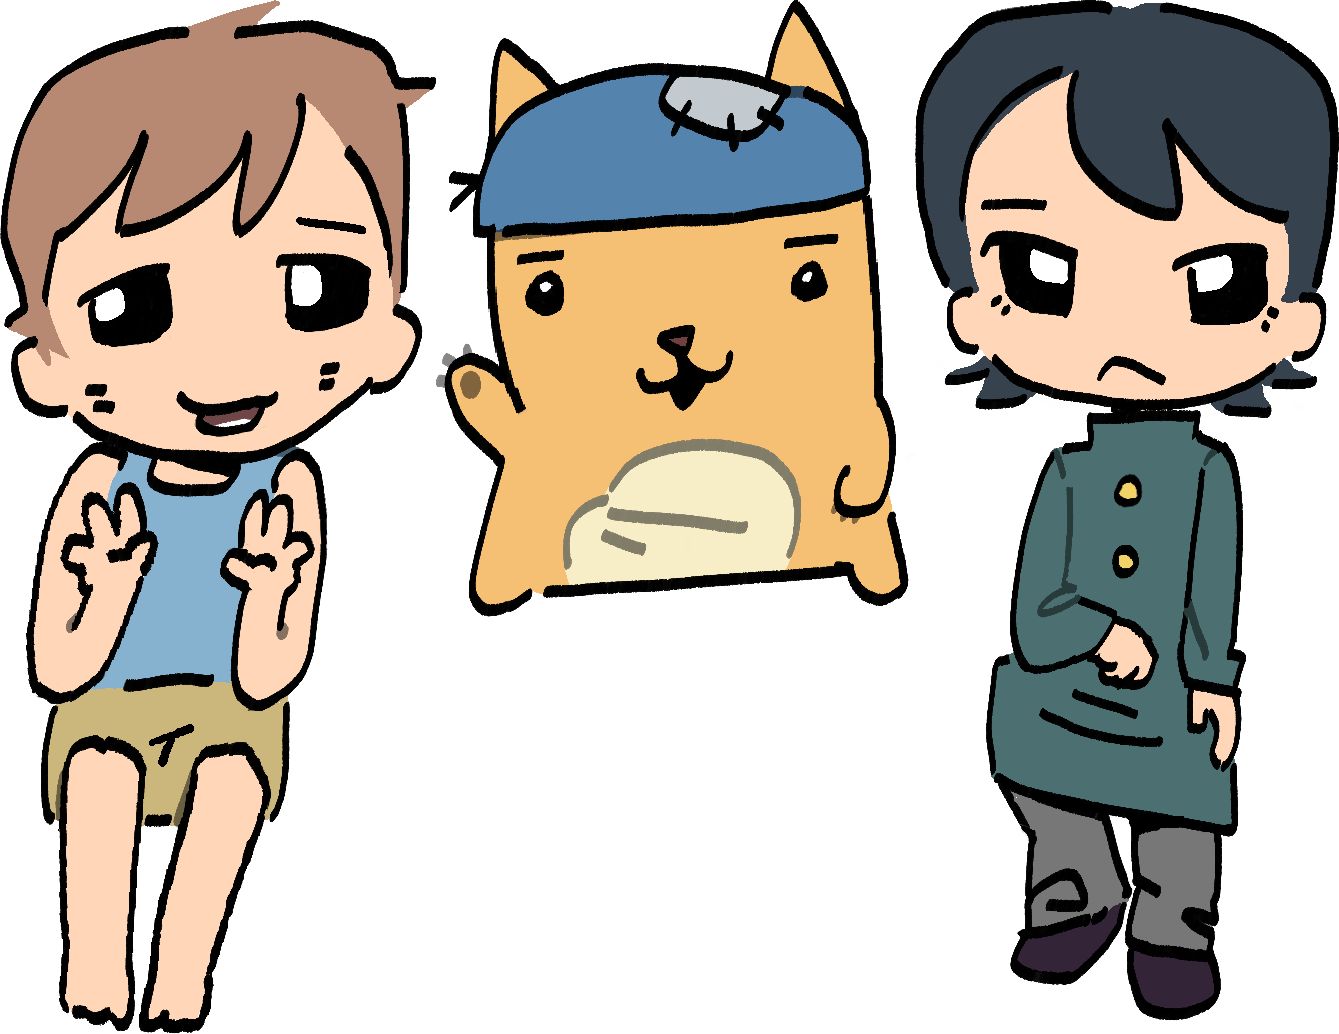
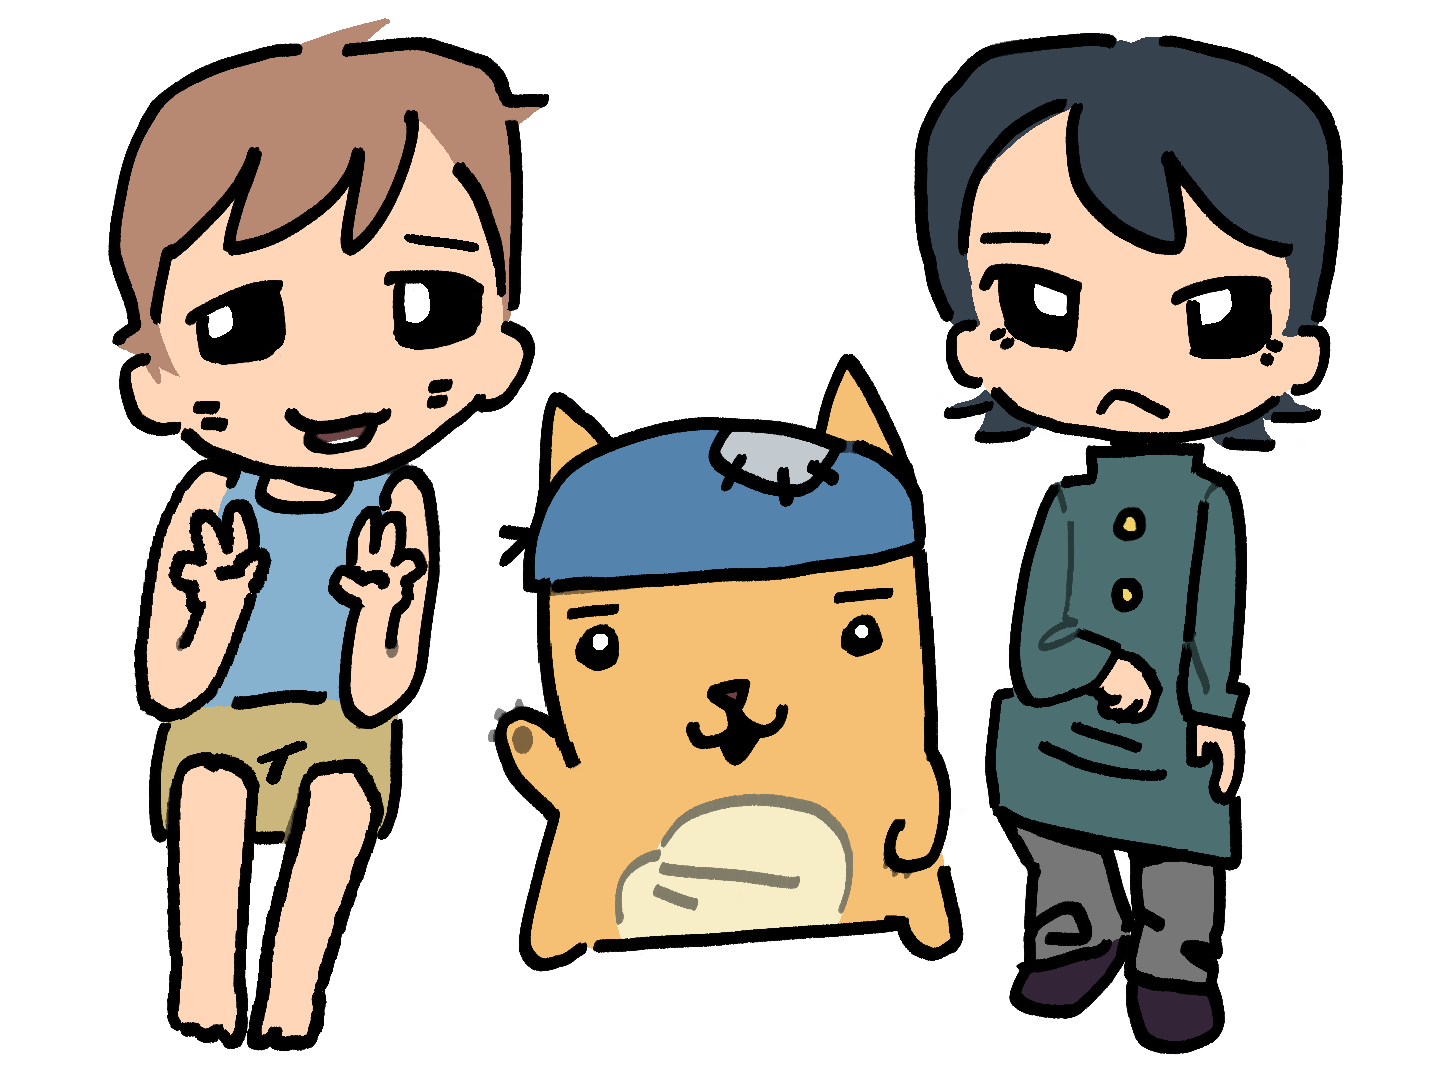
feat(buddy): cut the redrawn buddy sheet into one image per figure

diff --git a/frontend/src/components/BuddyAvatar.jsx b/frontend/src/components/BuddyAvatar.jsx
@@ -1,4 +1,6 @@
-import buddySpriteSheet from '../assets/buddyAvatar/diploma_buddies-Sheet.png'
+import mattiFigure from '../assets/buddyAvatar/figures/matti.png'
+import pandaFigure from '../assets/buddyAvatar/figures/panda.png'
+import ppFigure from '../assets/buddyAvatar/figures/pp.png'
 import pandaIcon from '../assets/buddyAvatar/panda/panda_icon.png'
 import './BuddyAvatar.css'
 
@@ -13,37 +15,20 @@ const BUDDY_ICONS = {
     buddy_1: pandaIcon,
 }
 
-// diploma_buddies-Sheet.png is 1339×1034 and its three figures have different
-// widths (the cat's paw and Matti's hair share columns), so each buddy has its
-// own bounding box instead of an equal third of the sheet.
-const SHEET_W = 1339
-const SHEET_H = 1034
-
-const BUDDY_FRAMES = {
-    buddy_1: { x: 436, y: 0, w: 473, h: 617 },
-    buddy_2: { x: 915, y: 0, w: 424, h: 1021 },
-    buddy_3: { x: 0, y: 0, w: 436, h: 1034 },
-}
-
-// Square head crops for the nav-bar icon of buddies without a dedicated icon
-const BUDDY_HEADS = {
-    buddy_2: { x: 915, y: 0, size: 424 },
-    buddy_3: { x: 0, y: 0, size: 436 },
+// One PNG per figure, cut out of diploma_buddies-Sheet.png (1440×1080) along
+// each figure's own pixels, since their bounding boxes overlap on the sheet.
+// w and h are the crop sizes in sheet pixels, which keeps the sheet's scale.
+const BUDDY_FIGURES = {
+    buddy_1: { src: pandaFigure, w: 479, h: 618 },
+    buddy_2: { src: ppFigure, w: 429, h: 1022 },
+    buddy_3: { src: mattiFigure, w: 441, h: 1034 },
 }
 
 // Every buddy is drawn at one shared scale inside a frame as wide as the widest
 // figure and as tall as the tallest, standing on the frame's bottom edge
-const FRAME_W = Math.max(...Object.values(BUDDY_FRAMES).map(f => f.w))
-const FRAME_H = Math.max(...Object.values(BUDDY_FRAMES).map(f => f.h))
+const FRAME_W = Math.max(...Object.values(BUDDY_FIGURES).map(f => f.w))
+const FRAME_H = Math.max(...Object.values(BUDDY_FIGURES).map(f => f.h))
 const FRAME_ASPECT = FRAME_H / FRAME_W
-
-function sheetCrop(x, y, scale) {
-    return {
-        backgroundImage: `url(${buddySpriteSheet})`,
-        backgroundSize: `${SHEET_W * scale}px ${SHEET_H * scale}px`,
-        backgroundPosition: `${-x * scale}px ${-y * scale}px`,
-    }
-}
 
 export function BuddyIcon({ buddyId, size = 36 }) {
     const icon = BUDDY_ICONS[buddyId]
@@ -57,25 +42,27 @@ export function BuddyIcon({ buddyId, size = 36 }) {
             />
         )
     }
-    // Fallback: head crop from the sprite sheet for buddies without a dedicated icon
-    const head = BUDDY_HEADS[buddyId]
-    if (head == null) return null
+    // Fallback: the top square of the figure (its head) for buddies without a dedicated icon
+    const figure = BUDDY_FIGURES[buddyId]
+    if (figure == null) return null
     return (
         <div
             className="buddy-icon buddy-icon--sprite"
             style={{
                 width: size,
                 height: size,
-                ...sheetCrop(head.x, head.y, size / head.size),
+                backgroundImage: `url(${figure.src})`,
+                backgroundSize: '100% auto',
+                backgroundPosition: '0 0',
             }}
         />
     )
 }
 
 export function BuddySprite({ buddyId, size = 120 }) {
-    const frame = BUDDY_FRAMES[buddyId]
+    const figure = BUDDY_FIGURES[buddyId]
     const h = Math.round(size * FRAME_ASPECT)
-    if (frame == null) {
+    if (figure == null) {
         return (
             <div
                 className="buddy-sprite buddy-sprite--empty"
@@ -88,13 +75,12 @@ export function BuddySprite({ buddyId, size = 120 }) {
     const scale = size / FRAME_W
     return (
         <div className="buddy-sprite" style={{ width: size, height: h }}>
-            <div
+            <img
                 className="buddy-sprite__figure"
-                style={{
-                    width: frame.w * scale,
-                    height: frame.h * scale,
-                    ...sheetCrop(frame.x, frame.y, scale),
-                }}
+                src={figure.src}
+                alt=""
+                width={Math.round(figure.w * scale)}
+                height={Math.round(figure.h * scale)}
             />
         </div>
     )

diff --git a/frontend/src/components/BuddyAvatar.css b/frontend/src/components/BuddyAvatar.css
@@ -22,7 +22,7 @@
 }
 
 .buddy-sprite__figure {
-    background-repeat: no-repeat;
+    display: block;
 }
 
 .buddy-sprite--empty {
